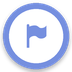
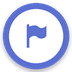
Deeper cornflower carries white text; remembered cruising hours
The light cornflower sat too close to its darker sibling and forced
dark text onto active pills. Accent deepens to #5A6FD1 (white text at
4.5:1, taking every slot the old green held) with #4459B5 as the
clearly-darker step (route line, icon accents) — the ramp reads as two
colors again.

The reach-mode hours stepper now persists like the pace already did
(moorhen.pace.reachHours), so "how far can I get?" remembers your
last answer. Planning a destination route also clears any leftover
reach frontier — stale flags no longer overlay the new line.

Claude-Session: https://claude.ai/code/session_01BWXSRjePnFjwBuCcA5vuXj

Changed region(s): [[0.0278, 0.0278, 0.9722, 0.9722], [0.3611, 0.3333, 0.6389, 0.6667]]

diff --git a/apps/mobile/src/app/(tabs)/plan.tsx b/apps/mobile/src/app/(tabs)/plan.tsx
@@ -1,5 +1,6 @@
 import Feather from '@expo/vector-icons/Feather'
 import MaterialCommunityIcons from '@expo/vector-icons/MaterialCommunityIcons'
+import AsyncStorage from '@react-native-async-storage/async-storage'
 import {
   DEFAULT_TIMING_PROFILE,
   journeyReach,
@@ -31,6 +32,9 @@ import type { RouteNotice } from '../../lib/route-notices'
 import { loadGraph } from '../../lib/route-graph'
 import { day as dayTheme, font, radius, shadow } from '../../theme'
 
+// "How far can I get?" hours — remembered between sessions, like the pace.
+const REACH_HOURS_KEY = 'moorhen.pace.reachHours'
+
 /**
  * The journey-planning home. Shares the planner store with the Map tab —
  * pick endpoints on either screen and both stay in sync; this one adds the
@@ -49,14 +53,28 @@ export default function PlanScreen() {
   const [searchTarget, setSearchTarget] = useState<'from' | 'to' | null>(null)
   const [places, setPlaces] = useState<PlaceEntry[] | null>(null)
   const [mode, setMode] = useState<'route' | 'reach'>('route')
-  const [reachHours, setReachHours] = useState(7)
+  const [reachHours, setReachHoursState] = useState(7)
   const [reach, setReach] = useState<ReachPoint[] | null>(null)
   const router = useRouter()
+
+  const setReachHours = (update: (h: number) => number) => {
+    setReachHoursState((h) => {
+      const next = update(h)
+      AsyncStorage.setItem(REACH_HOURS_KEY, String(next)).catch(() => {})
+      return next
+    })
+  }
 
   useEffect(() => {
     loadPlacesIndex()
       .then(setPlaces)
       .catch(() => setPlaces(null))
+    AsyncStorage.getItem(REACH_HOURS_KEY)
+      .then((saved) => {
+        const parsed = Number(saved)
+        if (Number.isFinite(parsed) && parsed >= 1 && parsed <= 48) setReachHoursState(parsed)
+      })
+      .catch(() => {})
   }, [])
 
   // "how far can I get?" — recompute when the inputs move
@@ -520,7 +538,7 @@ const styles = StyleSheet.create({
   },
   fieldValue: { fontFamily: font.medium, fontSize: 14, color: dayTheme.ink, flex: 1 },
   fieldPlaceholder: { fontFamily: font.regular, fontSize: 14, color: dayTheme.ink3, flex: 1 },
-  dotStart: { width: 10, height: 10, borderRadius: 5, backgroundColor: dayTheme.accentDark },
+  dotStart: { width: 10, height: 10, borderRadius: 5, backgroundColor: dayTheme.accent },
   dotEnd: { width: 10, height: 10, borderRadius: 3, backgroundColor: dayTheme.shieldRed },
   fieldActions: { flexDirection: 'row', gap: 8 },
   actionChip: {
@@ -553,7 +571,7 @@ const styles = StyleSheet.create({
     marginTop: 6,
     height: 44,
     borderRadius: radius.control,
-    backgroundColor: dayTheme.accentDark,
+    backgroundColor: dayTheme.accent,
     flexDirection: 'row',
     alignItems: 'center',
     justifyContent: 'center',
@@ -591,7 +609,7 @@ const styles = StyleSheet.create({
   warnTitle: { fontFamily: font.semibold, fontSize: 13, color: dayTheme.ink },
   warnTitleMuted: { color: dayTheme.ink3 },
   noticeHead: { flexDirection: 'row', alignItems: 'center', justifyContent: 'space-between' },
-  warnLink: { fontFamily: font.semibold, fontSize: 12, color: dayTheme.accentDark, marginTop: 2 },
+  warnLink: { fontFamily: font.semibold, fontSize: 12, color: dayTheme.accent, marginTop: 2 },
   warnBody: { fontFamily: font.regular, fontSize: 12, color: dayTheme.ink2, lineHeight: 17 },
   dayRow: { flexDirection: 'row', gap: 12, alignItems: 'flex-start' },
   dayDot: {
@@ -637,7 +655,7 @@ const styles = StyleSheet.create({
   },
   modePillActive: { backgroundColor: dayTheme.accent },
   modeText: { fontFamily: font.medium, fontSize: 13, color: dayTheme.ink2 },
-  modeTextActive: { color: dayTheme.ink, fontFamily: font.semibold },
+  modeTextActive: { color: '#FFFFFF', fontFamily: font.semibold },
   reachRow: { flexDirection: 'row', alignItems: 'center', gap: 10, paddingHorizontal: 4 },
   reachLabel: { flex: 1, fontFamily: font.medium, fontSize: 14, color: dayTheme.ink },
   emptyHint: {

diff --git a/apps/mobile/src/app/(tabs)/index.tsx b/apps/mobile/src/app/(tabs)/index.tsx
@@ -847,7 +847,7 @@ export default function MapScreen() {
                 id="selected-ring"
                 paint={{
                   'circle-radius': 13,
-                  'circle-color': 'rgba(144, 172, 233, 0.22)',
+                  'circle-color': 'rgba(90, 111, 209, 0.2)',
                   'circle-stroke-color': day.accent,
                   'circle-stroke-width': 2.5,
                 }}
@@ -1026,7 +1026,7 @@ export default function MapScreen() {
                 <MaterialCommunityIcons
                   name={chip.key === 'canalside' ? 'filter-variant' : chip.icon}
                   size={15}
-                  color={isActive ? day.ink : day.ink2}
+                  color={isActive ? day.surface : day.ink2}
                 />
                 <Text style={[styles.chipLabel, isActive && styles.chipLabelActive]}>
                   {chip.label}
@@ -1063,7 +1063,7 @@ export default function MapScreen() {
                     })
                   }}
                 >
-                  <Feather name="crosshair" size={16} color={day.accentDark} />
+                  <Feather name="crosshair" size={16} color={day.accent} />
                 </Pressable>
               </Pressable>
               <Pressable
@@ -1328,7 +1328,7 @@ const styles = StyleSheet.create({
   routeText: { flex: 1, gap: 2 },
   routeTitle: { fontFamily: font.semibold, fontSize: 16, color: day.ink, letterSpacing: -0.2 },
   routeMeta: { fontFamily: font.regular, fontSize: 12, color: day.ink2 },
-  routeStopsLink: { fontFamily: font.semibold, fontSize: 12, color: day.accentDark, marginTop: 2 },
+  routeStopsLink: { fontFamily: font.semibold, fontSize: 12, color: day.accent, marginTop: 2 },
   routeWarn: { fontFamily: font.semibold, fontSize: 12, color: '#B98A16', marginTop: 2 },
   routeBoatWarn: { fontFamily: font.semibold, fontSize: 12, color: '#9C4A32', marginTop: 2 },
   paceRow: { flexDirection: 'row', alignItems: 'center', gap: 8, marginTop: 6 },
@@ -1364,7 +1364,7 @@ const styles = StyleSheet.create({
     width: 10,
     height: 10,
     borderRadius: 5,
-    backgroundColor: day.accentDark,
+    backgroundColor: day.accent,
   },
   plannerDotEnd: {
     width: 10,
@@ -1386,7 +1386,7 @@ const styles = StyleSheet.create({
     alignItems: 'center',
     justifyContent: 'center',
   },
-  routeButtonActive: { backgroundColor: day.accentDark },
+  routeButtonActive: { backgroundColor: day.accent },
   captureButton: {
     position: 'absolute',
     right: 12,
@@ -1394,7 +1394,7 @@ const styles = StyleSheet.create({
     width: 48,
     height: 48,
     borderRadius: radius.pill,
-    backgroundColor: day.accentDark,
+    backgroundColor: day.accent,
     alignItems: 'center',
     justifyContent: 'center',
   },
@@ -1411,5 +1411,5 @@ const styles = StyleSheet.create({
   chipMeta: { borderWidth: 1.5, borderColor: day.ink3, backgroundColor: day.bg },
   chipMetaActive: { backgroundColor: day.ink, borderColor: day.ink },
   chipLabel: { fontFamily: font.medium, fontSize: 13, color: day.ink2 },
-  chipLabelActive: { fontFamily: font.semibold, color: day.ink },
+  chipLabelActive: { fontFamily: font.semibold, color: day.surface },
 })

diff --git a/apps/mobile/src/theme.ts b/apps/mobile/src/theme.ts
@@ -13,10 +13,10 @@ export const day = {
   ink3: '#9C9B99',
   border: '#E5E4E1',
   borderStrong: '#D1D0CD',
-  /** The calming cornflower accent — highlights, active chips, rings. */
-  accent: '#90ACE9',
-  /** Same hue, deep enough to carry white text — buttons, links. */
-  accentDark: '#758FDF',
+  /** The calming cornflower accent — chips, buttons, rings; carries white text. */
+  accent: '#5A6FD1',
+  /** A clear step deeper — route line, icon accents, pressed states. */
+  accentDark: '#4459B5',
   /** Soft tint for pills and icon plates. */
   accentSoft: '#E7EDFB',
   water: '#5E9DB5',

diff --git a/apps/mobile/src/app/downloads.tsx b/apps/mobile/src/app/downloads.tsx
@@ -53,7 +53,7 @@ function RegionRow({ region }: { region: RegionInfo }) {
       </View>
       {status.downloading ? (
         <View style={styles.button}>
-          <Feather name="loader" size={16} color={day.accentDark} />
+          <Feather name="loader" size={16} color={day.accent} />
           <Text style={styles.buttonText}>Downloading…</Text>
         </View>
       ) : status.downloaded ? (
@@ -63,7 +63,7 @@ function RegionRow({ region }: { region: RegionInfo }) {
         </Pressable>
       ) : (
         <Pressable style={styles.button} onPress={() => downloadRegion(region.id)}>
-          <Feather name="download" size={16} color={day.accentDark} />
+          <Feather name="download" size={16} color={day.accent} />
           <Text style={styles.buttonText}>Download</Text>
         </Pressable>
       )}

diff --git a/apps/mobile/src/components/detail-sheet.tsx b/apps/mobile/src/components/detail-sheet.tsx
@@ -501,7 +501,7 @@ const styles = StyleSheet.create({
   closedTag: { backgroundColor: '#F3DCD3' },
   closedTagText: { color: '#9C4A32' },
   linksRow: { flexDirection: 'row', gap: 16 },
-  linkText: { fontFamily: font.semibold, fontSize: 12, color: day.accentDark },
+  linkText: { fontFamily: font.semibold, fontSize: 12, color: day.accent },
   actionsRow: { flexDirection: 'row', gap: 8 },
   hoursEditRow: { flexDirection: 'row', gap: 8, alignItems: 'center' },
   hoursInput: {
@@ -549,7 +549,7 @@ const styles = StyleSheet.create({
   buttonPrimary: {
     flex: 1,
     height: 42,
-    backgroundColor: day.accentDark,
+    backgroundColor: day.accent,
     borderRadius: radius.control,
     flexDirection: 'row',
     alignItems: 'center',

diff --git a/apps/mobile/src/lib/planner-store.ts b/apps/mobile/src/lib/planner-store.ts
@@ -109,7 +109,8 @@ class PlannerStore {
       return
     }
     const generation = ++this.planGeneration
-    this.patch({ planning: true, route: null, stops: null, routeNotices: null })
+    // a destination route supersedes any "how far can I get?" frontier
+    this.patch({ planning: true, route: null, stops: null, routeNotices: null, reach: null })
     try {
       const graph = await loadGraph()
       const route = planRoute(graph, from.point, to.point, hoursPerDay)

diff --git a/apps/mobile/src/app/(tabs)/_layout.tsx b/apps/mobile/src/app/(tabs)/_layout.tsx
@@ -14,7 +14,7 @@ export default function TabsLayout() {
     <Tabs
       screenOptions={{
         headerShown: false,
-        tabBarActiveTintColor: day.accentDark,
+        tabBarActiveTintColor: day.accent,
         tabBarInactiveTintColor: day.tabInactive,
         tabBarStyle: {
           backgroundColor: day.surface,

diff --git a/apps/mobile/src/app/(tabs)/cruise.tsx b/apps/mobile/src/app/(tabs)/cruise.tsx
@@ -279,7 +279,7 @@ const styles = StyleSheet.create({
     height: 52,
     paddingHorizontal: 28,
     borderRadius: radius.pill,
-    backgroundColor: '#758FDF',
+    backgroundColor: '#5A6FD1',
     flexDirection: 'row',
     alignItems: 'center',
     justifyContent: 'center',

diff --git a/apps/mobile/src/components/route-stops-sheet.tsx b/apps/mobile/src/components/route-stops-sheet.tsx
@@ -174,7 +174,7 @@ const styles = StyleSheet.create({
   },
   filterChipActive: { backgroundColor: day.accent },
   filterLabel: { fontFamily: font.medium, fontSize: 12, color: day.ink2 },
-  filterLabelActive: { color: day.ink, fontFamily: font.semibold },
+  filterLabelActive: { color: day.surface, fontFamily: font.semibold },
   row: { flexDirection: 'row', alignItems: 'center', gap: 12, paddingVertical: 8 },
   rowIcon: {
     width: 32,

diff --git a/scripts/make-markers.py b/scripts/make-markers.py
@@ -43,7 +43,7 @@ SPEC = {
     "mooring": ("anchor", "#33647E"),
     "winding": ("autorenew", "#33647E"),
     "stoppage": ("alert", "#C94B33"),
-    "reach": ("flag-variant", "#758FDF"),
+    "reach": ("flag-variant", "#5A6FD1"),
     "community": ("anchor", "#7B5FB8"),
 }
 